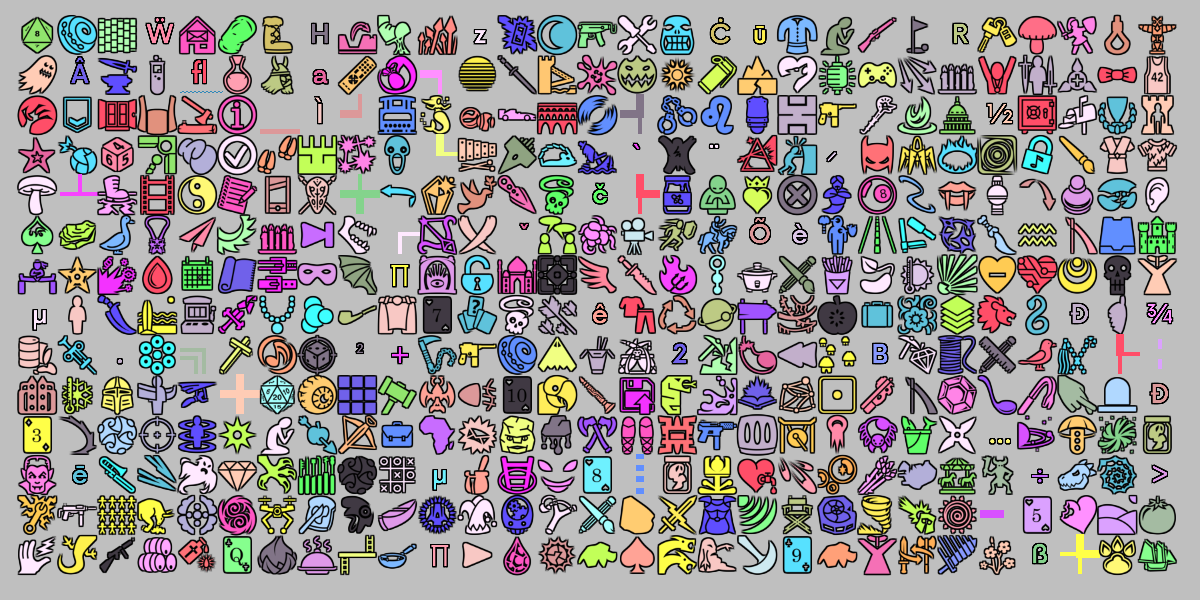
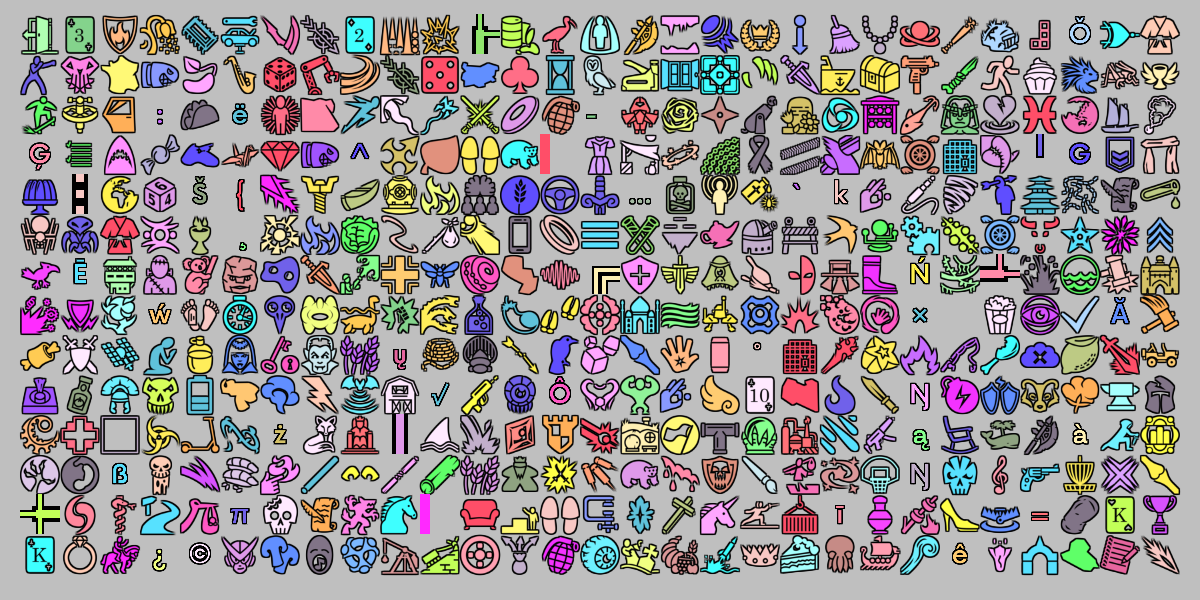
Remake GameIconsPreview.png, for real!
This uses SDF for the font, which it may have also before. The spacing seems better, and box-drawing chars get outlined correctly now.

diff --git a/src/test/java/com/github/tommyettinger/textra/PreviewIconGenerator.java b/src/test/java/com/github/tommyettinger/textra/PreviewIconGenerator.java
@@ -50,7 +50,7 @@ public class PreviewIconGenerator extends ApplicationAdapter {
         viewport = new StretchViewport(SCREEN_WIDTH, SCREEN_HEIGHT);
 
         Gdx.files.local("out/").mkdirs();
-        font = KnownFonts.addGameIcons(KnownFonts.getNowAlt(Font.DistanceFieldType.STANDARD).fitCell(40, 40, true), 0, -4f, 0f);
+        font = KnownFonts.addGameIcons(KnownFonts.getNowAlt(Font.DistanceFieldType.SDF).fitCell(40, 40, true), 0, -4f, 0f);
         font.omitCurlyBraces = false;
         layout.setBaseColor(Color.WHITE);
         StringBuilder sb = new StringBuilder(4000);
@@ -64,8 +64,8 @@ public class PreviewIconGenerator extends ApplicationAdapter {
         for (int y = 0; y < 14; y++) {
             for (int x = 0; x < 29; x++) {
                 sb.append("[richmost white ").append(names.get(random.nextInt(ps))).append(']');
-//                char ch = (char)keys.get(random.nextInt(ks));
-                char ch = BlockUtils.ALL_BLOCK_CHARS.charAt(random.nextInt(BlockUtils.ALL_BLOCK_CHARS.length()));
+                char ch = (char)keys.get(random.nextInt(ks));
+//                char ch = BlockUtils.ALL_BLOCK_CHARS.charAt(random.nextInt(BlockUtils.ALL_BLOCK_CHARS.length()));
                 if(ch == '[')
                     sb.append('\u0002');
                 else
